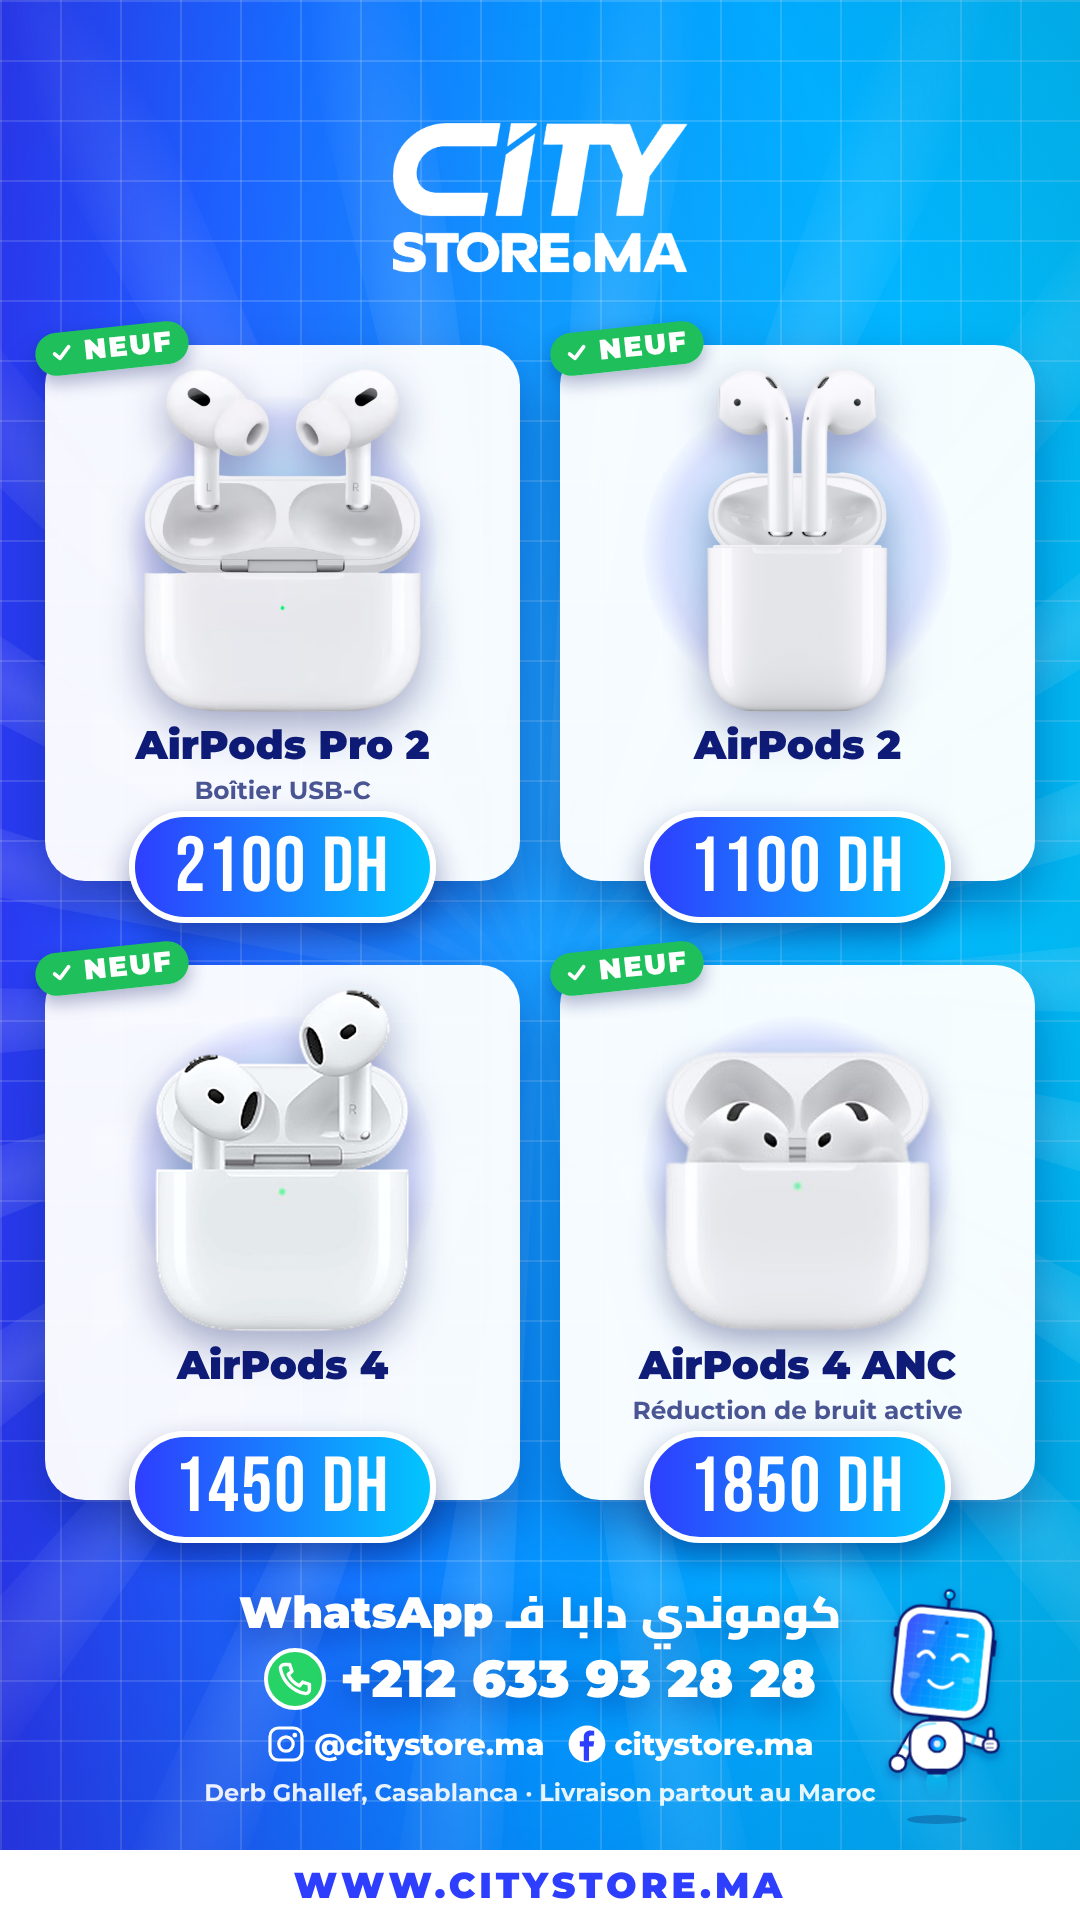
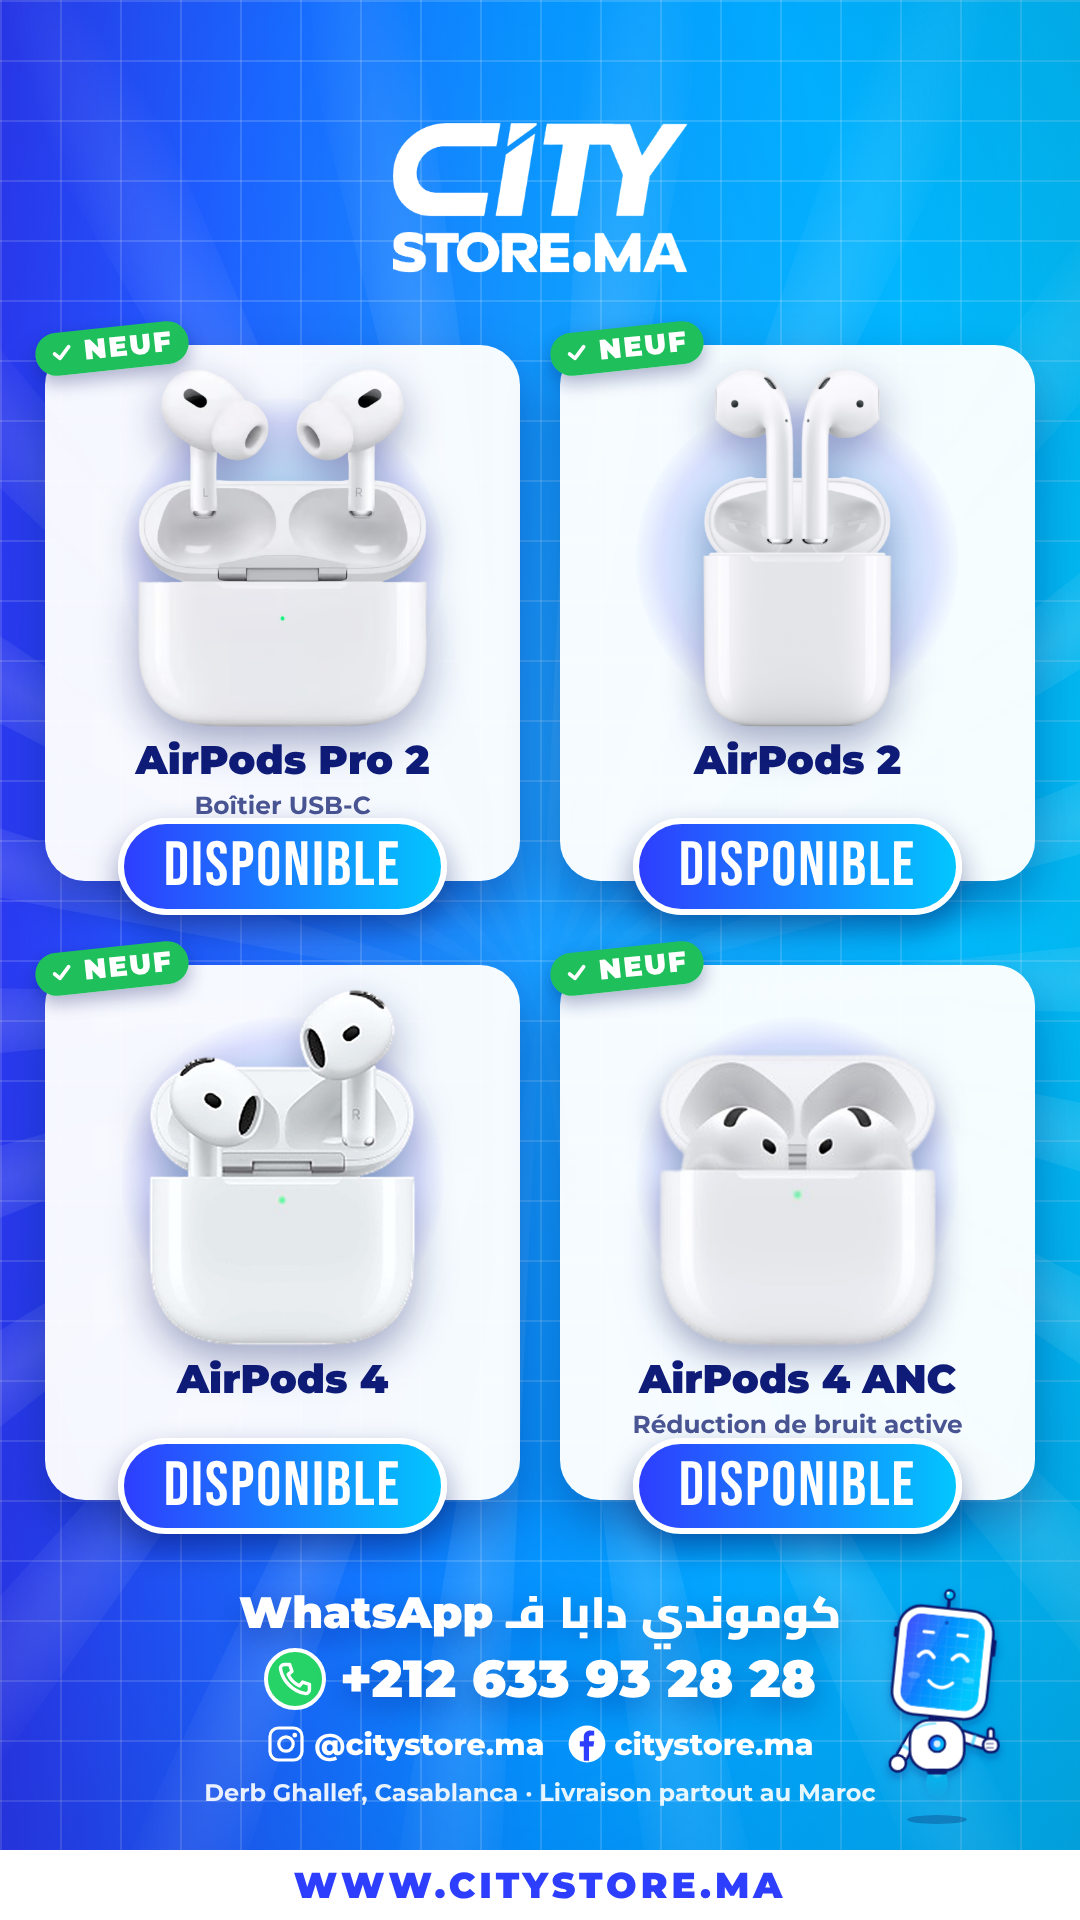
AirPods story: DISPONIBLE instead of prices
Claude-Session: https://claude.ai/code/session_01B6UvVnyVQqoyQ1GwELGaCV

diff --git a/src/pricelist/lists.ts b/src/pricelist/lists.ts
@@ -8,11 +8,11 @@ import { PriceListProps } from "./PriceList";
 export const PRICE_LISTS: Record<string, PriceListProps> = {
   airpods: {
     items: [
-      { name: "AirPods Pro 2", img: "pricelist/airpods/pro2.png", price: "2100 DH", condition: "neuf", spec: "Boîtier USB-C" },
-      { name: "AirPods 2", img: "pricelist/airpods/airpods2.png", price: "1100 DH", condition: "neuf" },
+      { name: "AirPods Pro 2", img: "pricelist/airpods/pro2.png", price: "DISPONIBLE", condition: "neuf", spec: "Boîtier USB-C" },
+      { name: "AirPods 2", img: "pricelist/airpods/airpods2.png", price: "DISPONIBLE", condition: "neuf" },
       // AirPods 4 and 4 ANC look the same: the two renders from the AirPods reel (open / buds in) tell them apart
-      { name: "AirPods 4", img: "airpods5b/products/open.png", price: "1450 DH", condition: "neuf" },
-      { name: "AirPods 4 ANC", img: "airpods5b/products/case.png", price: "1850 DH", condition: "neuf", spec: "Réduction de bruit active", scale: 0.82 },
+      { name: "AirPods 4", img: "airpods5b/products/open.png", price: "DISPONIBLE", condition: "neuf" },
+      { name: "AirPods 4 ANC", img: "airpods5b/products/case.png", price: "DISPONIBLE", condition: "neuf", spec: "Réduction de bruit active", scale: 0.82 },
     ],
   },
   iphones: {

diff --git a/src/pricelist/PriceList.tsx b/src/pricelist/PriceList.tsx
@@ -102,7 +102,7 @@ const StockCard: React.FC<{ it: PriceItem; w: number; h: number; maxRows: number
 
 const Card: React.FC<{ it: PriceItem; w: number; h: number }> = ({ it, w, h }) => {
   const big = h > 420;
-  const priceSize = big ? 78 : 66;
+  const priceSize = (big ? 78 : 66) * ((it.price ?? "").length > 8 ? 0.8 : 1); // word tags (e.g. DISPONIBLE) a bit smaller than prices
   // fixed rows so every card in a row lines up: photo slot (products stand on the same line), one name line, one
   // spec line (kept empty when there is no spec), then the price tag
   const nameMax = big ? 40 : 34;

diff --git a/assets/pricelist/airpods/SOURCES.md b/assets/pricelist/airpods/SOURCES.md
@@ -3,4 +3,4 @@
 - `src/airpods2.png` (700 px, transparent, supplied by City Store) -> `public/pricelist/airpods/airpods2.png` (trimmed, alpha haze < 12 removed)
 - AirPods 4 / AirPods 4 ANC: the renders from the AirPods reel (`public/airpods5b/products/open.png`, `case.png`). The two
   models look the same; to confirm with City Store that these renders show the AirPods 4 design.
-- Prices supplied by City Store: Pro 2 USB-C 2100 DH, AirPods 2 1100 DH, AirPods 4 1450 DH, AirPods 4 ANC 1850 DH.
+- Prices removed on request: each card now says DISPONIBLE (earlier: 2100 / 1100 / 1450 / 1850 DH).
